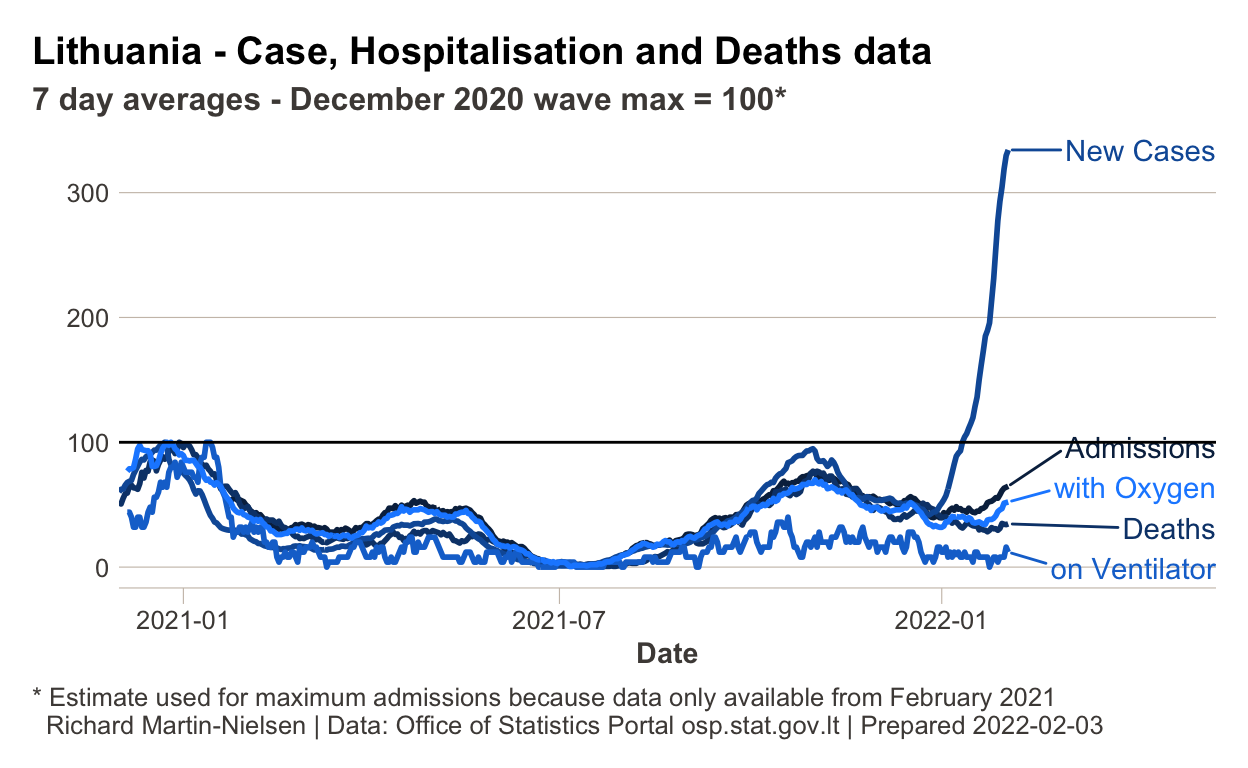
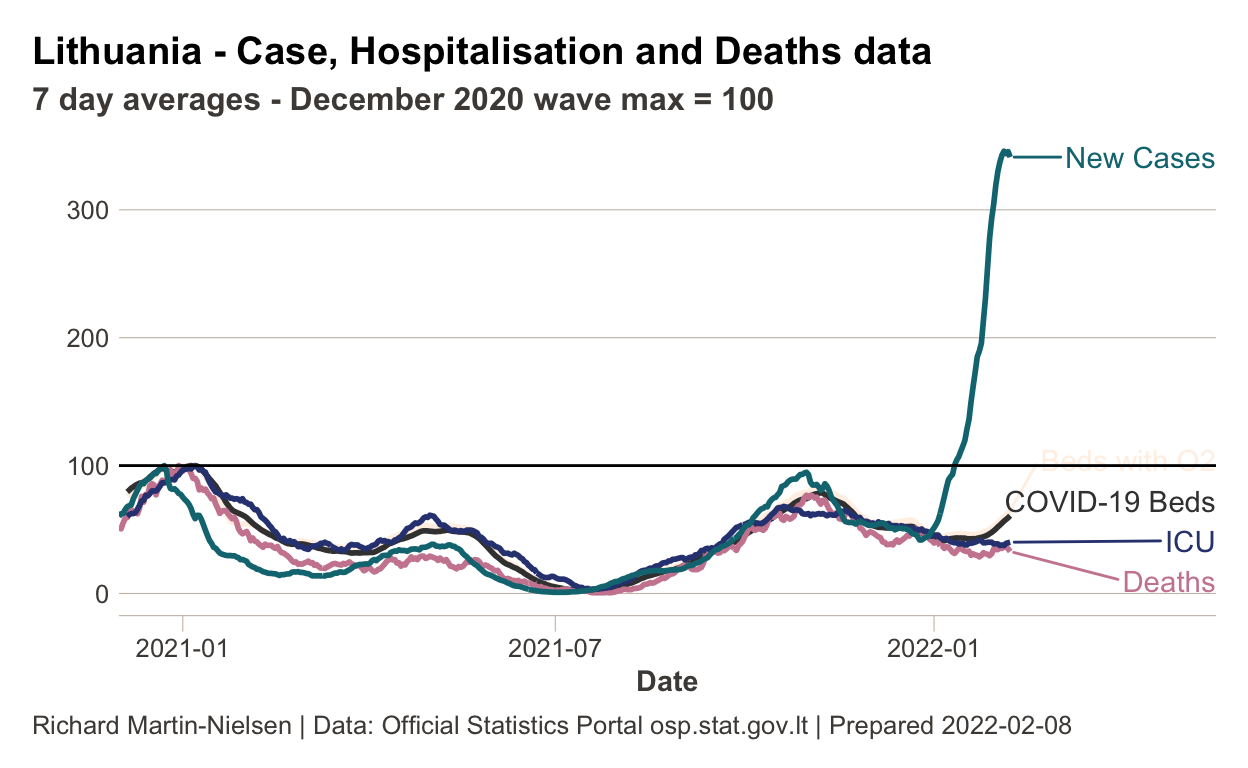
Switch to showing hospital occupancy instead of admissions

Changed region(s): [[0.0312, 0.1875, 0.9688, 0.9688], [0.0312, 0.4062, 0.0938, 0.4688]]

diff --git a/docs/hospitalisations.html b/docs/hospitalisations.html
@@ -93,8 +93,8 @@ code span.wa { color: #5e5e5e; font-style: italic; } /* Warning */
   <link rel="license" href="https://creativecommons.org/licenses/by/4.0/"/>
 
   <!--  https://schema.org/Article -->
-  <meta property="article:published" itemprop="datePublished" content="2022-02-03"/>
-  <meta property="article:created" itemprop="dateCreated" content="2022-02-03"/>
+  <meta property="article:published" itemprop="datePublished" content="2022-02-08"/>
+  <meta property="article:created" itemprop="dateCreated" content="2022-02-08"/>
 
   <!--  https://developers.facebook.com/docs/sharing/webmasters#markup -->
   <meta property="og:title" content="Lithuanian COVID-19 calculations: Hospital admissions in the Omicron wave"/>
@@ -111,7 +111,7 @@ code span.wa { color: #5e5e5e; font-style: italic; } /* Warning */
   <!--radix_placeholder_rmarkdown_metadata-->
 
   <script type="text/json" id="radix-rmarkdown-metadata">
-  {"type":"list","attributes":{"names":{"type":"character","attributes":{},"value":["title","params","date","output","base_url","twitter","creative_commons"]}},"value":[{"type":"character","attributes":{},"value":["Hospital admissions in the Omicron wave"]},{"type":"list","attributes":{"names":{"type":"character","attributes":{},"value":["prepared_by"]}},"value":[{"type":"list","attributes":{"names":{"type":"character","attributes":{},"value":["label","value","input"]}},"value":[{"type":"character","attributes":{},"value":["Prepared by:"]},{"type":"character","attributes":{},"value":["Richard Martin-Nielsen"]},{"type":"character","attributes":{},"value":["text"]}]}]},{"type":"character","attributes":{},"value":["2022-02-03"]},{"type":"character","attributes":{},"value":["distill::distill_article"]},{"type":"character","attributes":{},"value":["https://richardmn.github.io/lt_covid_calcs"]},{"type":"list","attributes":{"names":{"type":"character","attributes":{},"value":["site"]}},"value":[{"type":"character","attributes":{},"value":["@rmartinnielsen"]}]},{"type":"character","attributes":{},"value":["CC BY"]}]}
+  {"type":"list","attributes":{"names":{"type":"character","attributes":{},"value":["title","params","date","output","base_url","twitter","creative_commons"]}},"value":[{"type":"character","attributes":{},"value":["Hospital admissions in the Omicron wave"]},{"type":"list","attributes":{"names":{"type":"character","attributes":{},"value":["prepared_by"]}},"value":[{"type":"list","attributes":{"names":{"type":"character","attributes":{},"value":["label","value","input"]}},"value":[{"type":"character","attributes":{},"value":["Prepared by:"]},{"type":"character","attributes":{},"value":["Richard Martin-Nielsen"]},{"type":"character","attributes":{},"value":["text"]}]}]},{"type":"character","attributes":{},"value":["2022-02-08"]},{"type":"character","attributes":{},"value":["distill::distill_article"]},{"type":"character","attributes":{},"value":["https://richardmn.github.io/lt_covid_calcs"]},{"type":"list","attributes":{"names":{"type":"character","attributes":{},"value":["site"]}},"value":[{"type":"character","attributes":{},"value":["@rmartinnielsen"]}]},{"type":"character","attributes":{},"value":["CC BY"]}]}
   </script>
   <!--/radix_placeholder_rmarkdown_metadata-->
   <!--radix_placeholder_navigation_in_header-->
@@ -2059,7 +2059,7 @@ code span.wa { color: #5e5e5e; font-style: italic; } /* Warning */
 <!--radix_placeholder_front_matter-->
 
 <script id="distill-front-matter" type="text/json">
-{"title":"Hospital admissions in the Omicron wave","authors":[],"publishedDate":"2022-02-03T00:00:00.000+02:00"}
+{"title":"Hospital admissions in the Omicron wave","authors":[],"publishedDate":"2022-02-08T00:00:00.000+02:00"}
 </script>
 
 <!--/radix_placeholder_front_matter-->
@@ -2109,21 +2109,24 @@ Show code
   <span class='fu'><a href='https://dplyr.tidyverse.org/reference/mutate.html'>mutate</a></span><span class='op'>(</span> event <span class='op'>=</span> <span class='fu'><a href='https://rdrr.io/r/base/grep.html'>gsub</a></span><span class='op'>(</span><span class='st'>"_r7m.*"</span>,<span class='st'>""</span>, <span class='va'>event</span><span class='op'>)</span><span class='op'>)</span> <span class='op'><a href='https://magrittr.tidyverse.org/reference/pipe.html'>%&gt;%</a></span>
   <span class='fu'><a href='https://dplyr.tidyverse.org/reference/mutate.html'>mutate</a></span><span class='op'>(</span> event <span class='op'>=</span> <span class='fu'><a href='https://stringr.tidyverse.org/reference/case.html'>str_to_title</a></span><span class='op'>(</span><span class='fu'><a href='https://rdrr.io/r/base/grep.html'>gsub</a></span><span class='op'>(</span><span class='st'>"_"</span>,<span class='st'>" "</span>, <span class='va'>event</span><span class='op'>)</span><span class='op'>)</span><span class='op'>)</span> <span class='op'><a href='https://magrittr.tidyverse.org/reference/pipe.html'>%&gt;%</a></span>
     <span class='fu'><a href='https://dplyr.tidyverse.org/reference/mutate.html'>mutate</a></span><span class='op'>(</span>event <span class='op'>=</span> <span class='fu'><a href='https://dplyr.tidyverse.org/reference/case_when.html'>case_when</a></span><span class='op'>(</span>
-    <span class='va'>event</span> <span class='op'>==</span> <span class='st'>"Admissions Oxygen"</span> <span class='op'>~</span> <span class='st'>"with Oxygen"</span>,
-    <span class='va'>event</span> <span class='op'>==</span> <span class='st'>"Admissions Mv"</span>     <span class='op'>~</span> <span class='st'>"on Ventilator"</span>,
+    <span class='va'>event</span> <span class='op'>==</span> <span class='st'>"Admissions Oxygen"</span> <span class='op'>~</span> <span class='st'>"Admissions with Oxygen"</span>,
+    <span class='va'>event</span> <span class='op'>==</span> <span class='st'>"Admissions Mv"</span>     <span class='op'>~</span> <span class='st'>"Admissions on Ventilator"</span>,
     <span class='va'>event</span> <span class='op'>==</span> <span class='st'>"Deaths Cov1"</span>       <span class='op'>~</span> <span class='st'>"Deaths"</span>, 
+    <span class='co'>#event == "Hospital Beds Occupied" ~ "Admissions with Oxygen",</span>
+    
+    <span class='co'>#event == "Admissions Mv"     ~ "Admissions on Ventilator",</span>
     <span class='cn'>TRUE</span> <span class='op'>~</span> <span class='va'>event</span>
   <span class='op'>)</span><span class='op'>)</span>
 <span class='va'>events_to_plot</span> <span class='op'>&lt;-</span> <span class='fu'><a href='https://rdrr.io/r/base/c.html'>c</a></span><span class='op'>(</span>
-              <span class='co'># "Hospital Beds Occupied",</span>
-              <span class='co'># "Oxygen Beds Occupied",</span>
+               <span class='st'>"Hospital Beds Occupied"</span>,
+               <span class='st'>"Oxygen Beds Occupied"</span>,
               <span class='co'># "Mv Beds Occupied",</span>
-              <span class='co'># "Icu Beds Occupied",</span>
+               <span class='st'>"Icu Beds Occupied"</span>
               <span class='co'># "Icu Mv Beds Occupied", </span>
               <span class='co'># "Icu Ecmo In Use",</span>
-              <span class='st'>"Admissions"</span>, 
-              <span class='st'>"with Oxygen"</span>,
-              <span class='st'>"on Ventilator"</span>
+              <span class='co'>#"Admissions", </span>
+              <span class='co'>#"with Oxygen",</span>
+              <span class='co'>#"on Ventilator"</span>
               <span class='op'>)</span>
 
 <span class='va'>lt_case_deaths</span> <span class='op'>&lt;-</span> <span class='va'>lt_aggregate</span> <span class='op'><a href='https://magrittr.tidyverse.org/reference/pipe.html'>%&gt;%</a></span>
@@ -2148,22 +2151,29 @@ Show code
   <span class='fu'><a href='https://dplyr.tidyverse.org/reference/mutate.html'>mutate</a></span><span class='op'>(</span>max <span class='op'>=</span> <span class='fu'><a href='https://dplyr.tidyverse.org/reference/if_else.html'>if_else</a></span><span class='op'>(</span><span class='va'>event</span> <span class='op'>==</span> <span class='st'>"Admissions"</span>, <span class='fl'>250</span>, <span class='va'>max</span><span class='op'>)</span><span class='op'>)</span>
   
 <span class='va'>lt_hosp_nrml</span> <span class='op'>&lt;-</span> <span class='fu'><a href='https://dplyr.tidyverse.org/reference/mutate-joins.html'>left_join</a></span><span class='op'>(</span><span class='fu'><a href='https://dplyr.tidyverse.org/reference/bind.html'>bind_rows</a></span><span class='op'>(</span><span class='va'>lt_hosp_cv19</span>, <span class='va'>lt_case_deaths</span><span class='op'>)</span>, <span class='va'>lt_hosp_cv19_max</span>, by<span class='op'>=</span><span class='fu'><a href='https://rdrr.io/r/base/c.html'>c</a></span><span class='op'>(</span><span class='st'>"event"</span><span class='op'>)</span><span class='op'>)</span> <span class='op'><a href='https://magrittr.tidyverse.org/reference/pipe.html'>%&gt;%</a></span>
-  <span class='fu'><a href='https://dplyr.tidyverse.org/reference/mutate.html'>mutate</a></span><span class='op'>(</span> count <span class='op'>=</span> <span class='fu'><a href='https://dplyr.tidyverse.org/reference/case_when.html'>case_when</a></span><span class='op'>(</span>
-    <span class='va'>event</span><span class='op'>==</span><span class='st'>"Admissions"</span> <span class='op'>&amp;&amp;</span> <span class='va'>count</span> <span class='op'>==</span> <span class='fl'>0</span>  <span class='op'>~</span> <span class='cn'>NA_real_</span>,
-    <span class='cn'>TRUE</span> <span class='op'>~</span> <span class='va'>count</span> <span class='op'>)</span> <span class='op'>)</span> <span class='op'><a href='https://magrittr.tidyverse.org/reference/pipe.html'>%&gt;%</a></span>
-  <span class='fu'><a href='https://dplyr.tidyverse.org/reference/filter.html'>filter</a></span><span class='op'>(</span><span class='op'>!</span><span class='op'>(</span><span class='va'>event</span> <span class='op'>==</span> <span class='st'>"Admissions"</span> <span class='op'>&amp;</span> <span class='va'>count</span> <span class='op'>==</span> <span class='fl'>0</span><span class='op'>)</span><span class='op'>)</span> <span class='op'><a href='https://magrittr.tidyverse.org/reference/pipe.html'>%&gt;%</a></span>
+  <span class='co'># mutate( count = case_when(</span>
+  <span class='co'>#   event=="Admissions" &amp;&amp; count == 0  ~ NA_real_,</span>
+  <span class='co'>#   TRUE ~ count ) ) %&gt;%</span>
+  <span class='co'># filter(!(event == "Admissions" &amp; count == 0)) %&gt;%</span>
   <span class='fu'><a href='https://dplyr.tidyverse.org/reference/mutate.html'>mutate</a></span><span class='op'>(</span>normalised<span class='op'>=</span> <span class='va'>count</span> <span class='op'>/</span> <span class='va'>max</span> <span class='op'>*</span> <span class='fl'>100</span><span class='op'>)</span> <span class='op'><a href='https://magrittr.tidyverse.org/reference/pipe.html'>%&gt;%</a></span>
     <span class='fu'><a href='https://dplyr.tidyverse.org/reference/filter.html'>filter</a></span><span class='op'>(</span><span class='va'>event</span> <span class='op'><a href='https://rdrr.io/r/base/match.html'>%in%</a></span> <span class='fu'><a href='https://rdrr.io/r/base/c.html'>c</a></span><span class='op'>(</span>
       <span class='co'>#"Icu Ecmo In Use",</span>
-                        <span class='st'>"Admissions"</span>,
-                        <span class='st'>"with Oxygen"</span>,
-                        <span class='st'>"on Ventilator"</span>,
+                      <span class='co'>#  "Admissions",</span>
+                        <span class='co'># "with Oxygen",</span>
+                        <span class='co'># "on Ventilator",</span>
+                        <span class='st'>"Hospital Beds Occupied"</span>,
+                        <span class='st'>"Oxygen Beds Occupied"</span>,
+                        <span class='co'># "Mv Beds Occupied",</span>
+                        <span class='st'>"Icu Beds Occupied"</span>,
                       <span class='st'>"New Cases"</span>,
                       <span class='st'>"Deaths Cov1"</span>
                       <span class='co'>#"Icu Ecmo In Use"</span>
                       <span class='op'>)</span><span class='op'>)</span> <span class='op'><a href='https://magrittr.tidyverse.org/reference/pipe.html'>%&gt;%</a></span>
   <span class='fu'><a href='https://dplyr.tidyverse.org/reference/mutate.html'>mutate</a></span><span class='op'>(</span>event <span class='op'>=</span> <span class='fu'><a href='https://dplyr.tidyverse.org/reference/case_when.html'>case_when</a></span><span class='op'>(</span>
-    <span class='va'>event</span> <span class='op'>==</span> <span class='st'>"Deaths Cov1"</span>       <span class='op'>~</span> <span class='st'>"Deaths"</span>, 
+    <span class='va'>event</span> <span class='op'>==</span> <span class='st'>"Deaths Cov1"</span>            <span class='op'>~</span> <span class='st'>"Deaths"</span>, 
+    <span class='va'>event</span> <span class='op'>==</span> <span class='st'>"Hospital Beds Occupied"</span> <span class='op'>~</span> <span class='st'>"COVID-19 Beds"</span>,
+    <span class='va'>event</span> <span class='op'>==</span> <span class='st'>"Oxygen Beds Occupied"</span>   <span class='op'>~</span> <span class='st'>"Beds with O2"</span>,
+    <span class='va'>event</span> <span class='op'>==</span> <span class='st'>"Icu Beds Occupied"</span>      <span class='op'>~</span> <span class='st'>"ICU"</span>,
     <span class='cn'>TRUE</span> <span class='op'>~</span> <span class='va'>event</span>
   <span class='op'>)</span><span class='op'>)</span> <span class='op'><a href='https://magrittr.tidyverse.org/reference/pipe.html'>%&gt;%</a></span>
   <span class='co'>#filter(!(event=="Admissions" &amp;&amp; normalised == 0)) %&gt;%</span>
@@ -2175,17 +2185,19 @@ Show code
     <span class='fu'><a href='https://rdrr.io/pkg/ggrepel/man/geom_text_repel.html'>geom_text_repel</a></span><span class='op'>(</span><span class='fu'><a href='https://ggplot2.tidyverse.org/reference/aes.html'>aes</a></span><span class='op'>(</span>x<span class='op'>=</span><span class='va'>date</span>,y<span class='op'>=</span><span class='va'>normalised</span>,label<span class='op'>=</span><span class='va'>event</span>,colour<span class='op'>=</span><span class='va'>event</span><span class='op'>)</span>,
                   nudge_x<span class='op'>=</span><span class='fl'>100</span>,
                   direction<span class='op'>=</span><span class='st'>"y"</span>,hjust<span class='op'>=</span><span class='st'>"right"</span>,
-                  data <span class='op'>=</span> <span class='fu'><a href='https://dplyr.tidyverse.org/reference/arrange.html'>arrange</a></span><span class='op'>(</span><span class='va'>lt_hosp_nrml</span>,<span class='va'>event</span>,<span class='va'>date</span><span class='op'>)</span><span class='op'><a href='https://magrittr.tidyverse.org/reference/pipe.html'>%&gt;%</a></span><span class='fu'><a href='https://dplyr.tidyverse.org/reference/group_by.html'>group_by</a></span><span class='op'>(</span><span class='va'>event</span><span class='op'>)</span><span class='op'><a href='https://magrittr.tidyverse.org/reference/pipe.html'>%&gt;%</a></span><span class='fu'><a href='https://dplyr.tidyverse.org/reference/summarise.html'>summarise</a></span><span class='op'>(</span><span class='fu'><a href='https://dplyr.tidyverse.org/reference/across.html'>across</a></span><span class='op'>(</span><span class='fu'><a href='https://tidyselect.r-lib.org/reference/everything.html'>everything</a></span><span class='op'>(</span><span class='op'>)</span>, <span class='va'>last</span><span class='op'>)</span><span class='op'>)</span><span class='op'>)</span> <span class='op'>+</span>
+                  data <span class='op'>=</span> <span class='fu'><a href='https://dplyr.tidyverse.org/reference/arrange.html'>arrange</a></span><span class='op'>(</span><span class='va'>lt_hosp_nrml</span>,<span class='va'>event</span>,<span class='va'>date</span><span class='op'>)</span><span class='op'><a href='https://magrittr.tidyverse.org/reference/pipe.html'>%&gt;%</a></span>
+                    <span class='fu'><a href='https://dplyr.tidyverse.org/reference/group_by.html'>group_by</a></span><span class='op'>(</span><span class='va'>event</span><span class='op'>)</span><span class='op'><a href='https://magrittr.tidyverse.org/reference/pipe.html'>%&gt;%</a></span>
+                    <span class='fu'><a href='https://dplyr.tidyverse.org/reference/summarise.html'>summarise</a></span><span class='op'>(</span><span class='fu'><a href='https://dplyr.tidyverse.org/reference/across.html'>across</a></span><span class='op'>(</span><span class='fu'><a href='https://tidyselect.r-lib.org/reference/everything.html'>everything</a></span><span class='op'>(</span><span class='op'>)</span>, <span class='va'>last</span><span class='op'>)</span><span class='op'>)</span> <span class='op'>)</span> <span class='op'>+</span>
                   <span class='co'>#data=group_by(lt_hosp_nrml%&gt;%filter(date == ymd("2022-01-13")), event)%&gt;%tail(6)) +</span>
   <span class='fu'><a href='https://ggplot2.tidyverse.org/reference/geom_abline.html'>geom_hline</a></span><span class='op'>(</span>yintercept <span class='op'>=</span> <span class='fl'>100</span><span class='op'>)</span> <span class='op'>+</span>
   <span class='fu'><a href='https://rdrr.io/pkg/ftplottools/man/ft_theme.html'>ft_theme</a></span><span class='op'>(</span><span class='op'>)</span> <span class='op'>+</span>
-  <span class='fu'><a href='https://rdrr.io/pkg/ftplottools/man/scale_color_ft.html'>scale_color_ft</a></span><span class='op'>(</span><span class='st'>"oxford"</span><span class='op'>)</span> <span class='op'>+</span>
+  <span class='fu'><a href='https://rdrr.io/pkg/ftplottools/man/scale_color_ft.html'>scale_color_ft</a></span><span class='op'>(</span><span class='st'>"origami primary"</span><span class='op'>)</span> <span class='op'>+</span>
   <span class='fu'><a href='https://ggplot2.tidyverse.org/reference/theme.html'>theme</a></span><span class='op'>(</span>legend.position <span class='op'>=</span> <span class='st'>"none"</span><span class='op'>)</span> <span class='op'>+</span>
     <span class='fu'><a href='https://ggplot2.tidyverse.org/reference/labs.html'>labs</a></span><span class='op'>(</span>title<span class='op'>=</span><span class='st'>"Lithuania - Case, Hospitalisation and Deaths data"</span>,
-       subtitle<span class='op'>=</span><span class='st'>"7 day averages - December 2020 wave max = 100*"</span>,
+       subtitle<span class='op'>=</span><span class='st'>"7 day averages - December 2020 wave max = 100"</span>,
        y<span class='op'>=</span><span class='st'>""</span>,
        x<span class='op'>=</span><span class='st'>"Date"</span>,
-       caption<span class='op'>=</span><span class='fu'><a href='https://rdrr.io/r/base/paste.html'>paste0</a></span><span class='op'>(</span><span class='st'>"* Estimate used for maximum admissions because data only available from February 2021\n  "</span>, <span class='va'>caption_text</span><span class='op'>)</span><span class='op'>)</span> <span class='op'>+</span>
+       caption<span class='op'>=</span><span class='fu'><a href='https://rdrr.io/r/base/paste.html'>paste0</a></span><span class='op'>(</span><span class='st'>""</span>, <span class='va'>caption_text</span><span class='op'>)</span><span class='op'>)</span> <span class='op'>+</span>
   <span class='fu'><a href='https://ggplot2.tidyverse.org/reference/scale_date.html'>scale_x_date</a></span><span class='op'>(</span>limits <span class='op'>=</span> <span class='fu'><a href='https://rdrr.io/r/base/c.html'>c</a></span><span class='op'>(</span><span class='fu'><a href='https://lubridate.tidyverse.org/reference/ymd.html'>ymd</a></span><span class='op'>(</span><span class='st'>"2020-12-01"</span>,<span class='cn'>NA</span><span class='op'>)</span><span class='op'>)</span>,expand <span class='op'>=</span> <span class='fu'><a href='https://ggplot2.tidyverse.org/reference/expansion.html'>expansion</a></span><span class='op'>(</span>add <span class='op'>=</span> <span class='fu'><a href='https://rdrr.io/r/base/c.html'>c</a></span><span class='op'>(</span><span class='fl'>0</span>,<span class='fl'>100</span><span class='op'>)</span><span class='op'>)</span><span class='op'>)</span> <span class='op'>+</span>
   <span class='fu'><a href='https://ggplot2.tidyverse.org/reference/scale_continuous.html'>scale_y_continuous</a></span><span class='op'>(</span>limits <span class='op'>=</span> <span class='fu'><a href='https://rdrr.io/r/base/c.html'>c</a></span><span class='op'>(</span><span class='fl'>0</span>,<span class='cn'>NA</span><span class='op'>)</span><span class='op'>)</span>
 </code></pre>
@@ -2193,32 +2205,38 @@ Show code
 </details>
 <p><img src="hospitalisations_files/figure-html5/normalised_hospitalisation-1.png" width="624" /></p>
 </div>
-<h2 id="hospital-admissions-since-late-2020">Hospital admissions since late 2020</h2>
-<p>This plot shows COVID-19 related hospital admissions since late 2020.</p>
+<h2 id="hospital-occupancy-since-late-2020">Hospital occupancy since late 2020</h2>
+<p>This plot shows COVID-19 related hospital bed occupancy since late 2020.</p>
 <div class="layout-chunk" data-layout="l-body">
 <details>
 <summary>
 Show code
 </summary>
 <div class="sourceCode">
-<pre class="sourceCode r"><code class="sourceCode r"><span class='va'>lt_hosp_cv19</span> <span class='op'><a href='https://magrittr.tidyverse.org/reference/pipe.html'>%&gt;%</a></span>
+<pre class="sourceCode r"><code class="sourceCode r"><span class='va'>lt_hosp_occupancy_labelled</span> <span class='op'>&lt;-</span> <span class='va'>lt_hosp_cv19</span> <span class='op'><a href='https://magrittr.tidyverse.org/reference/pipe.html'>%&gt;%</a></span>
   <span class='fu'><a href='https://dplyr.tidyverse.org/reference/filter.html'>filter</a></span><span class='op'>(</span> <span class='va'>event</span> <span class='op'><a href='https://rdrr.io/r/base/match.html'>%in%</a></span> <span class='va'>events_to_plot</span><span class='op'>)</span> <span class='op'><a href='https://magrittr.tidyverse.org/reference/pipe.html'>%&gt;%</a></span>
-  <span class='fu'><a href='https://dplyr.tidyverse.org/reference/filter.html'>filter</a></span><span class='op'>(</span><span class='op'>!</span><span class='op'>(</span><span class='va'>event</span> <span class='op'>==</span> <span class='st'>"Admissions"</span> <span class='op'>&amp;</span> <span class='va'>count</span> <span class='op'>==</span> <span class='fl'>0</span><span class='op'>)</span><span class='op'>)</span> <span class='op'><a href='https://magrittr.tidyverse.org/reference/pipe.html'>%&gt;%</a></span>
+    <span class='fu'><a href='https://dplyr.tidyverse.org/reference/mutate.html'>mutate</a></span><span class='op'>(</span>event <span class='op'>=</span> <span class='fu'><a href='https://dplyr.tidyverse.org/reference/case_when.html'>case_when</a></span><span class='op'>(</span>
+    <span class='va'>event</span> <span class='op'>==</span> <span class='st'>"Deaths Cov1"</span>            <span class='op'>~</span> <span class='st'>"Deaths"</span>, 
+    <span class='va'>event</span> <span class='op'>==</span> <span class='st'>"Hospital Beds Occupied"</span> <span class='op'>~</span> <span class='st'>"COVID-19 Beds"</span>,
+    <span class='va'>event</span> <span class='op'>==</span> <span class='st'>"Oxygen Beds Occupied"</span>   <span class='op'>~</span> <span class='st'>"Beds with O2"</span>,
+    <span class='va'>event</span> <span class='op'>==</span> <span class='st'>"Icu Beds Occupied"</span>      <span class='op'>~</span> <span class='st'>"ICU"</span>,
+    <span class='cn'>TRUE</span> <span class='op'>~</span> <span class='va'>event</span>
+  <span class='op'>)</span><span class='op'>)</span>
+
+<span class='va'>lt_hosp_occupancy_labelled</span> <span class='op'><a href='https://magrittr.tidyverse.org/reference/pipe.html'>%&gt;%</a></span>
   <span class='fu'><a href='https://ggplot2.tidyverse.org/reference/ggplot.html'>ggplot</a></span><span class='op'>(</span><span class='fu'><a href='https://ggplot2.tidyverse.org/reference/aes.html'>aes</a></span><span class='op'>(</span>x<span class='op'>=</span><span class='va'>date</span>,y<span class='op'>=</span><span class='va'>count</span>, colour<span class='op'>=</span><span class='va'>event</span><span class='op'>)</span><span class='op'>)</span> <span class='op'>+</span>
   <span class='fu'><a href='https://ggplot2.tidyverse.org/reference/geom_path.html'>geom_line</a></span><span class='op'>(</span>size<span class='op'>=</span><span class='fl'>1</span><span class='op'>)</span> <span class='op'>+</span>
-    <span class='fu'><a href='https://rdrr.io/pkg/ggrepel/man/geom_text_repel.html'>geom_text_repel</a></span><span class='op'>(</span><span class='fu'><a href='https://ggplot2.tidyverse.org/reference/aes.html'>aes</a></span><span class='op'>(</span>x<span class='op'>=</span><span class='va'>date</span>,y<span class='op'>=</span><span class='va'>count</span>,label<span class='op'>=</span><span class='va'>event</span>,colour<span class='op'>=</span><span class='va'>event</span><span class='op'>)</span>,
+  <span class='fu'><a href='https://rdrr.io/pkg/ggrepel/man/geom_text_repel.html'>geom_text_repel</a></span><span class='op'>(</span><span class='fu'><a href='https://ggplot2.tidyverse.org/reference/aes.html'>aes</a></span><span class='op'>(</span>x<span class='op'>=</span><span class='va'>date</span>,y<span class='op'>=</span><span class='va'>count</span>,label<span class='op'>=</span><span class='va'>event</span>,colour<span class='op'>=</span><span class='va'>event</span><span class='op'>)</span>,
                   nudge_x<span class='op'>=</span><span class='fl'>75</span>,
                   direction<span class='op'>=</span><span class='st'>"y"</span>,hjust<span class='op'>=</span><span class='st'>"left"</span>,
-                  data <span class='op'>=</span> <span class='fu'><a href='https://dplyr.tidyverse.org/reference/arrange.html'>arrange</a></span><span class='op'>(</span><span class='va'>lt_hosp_cv19</span>,<span class='va'>event</span>,<span class='va'>date</span><span class='op'>)</span><span class='op'><a href='https://magrittr.tidyverse.org/reference/pipe.html'>%&gt;%</a></span> 
-                    <span class='fu'><a href='https://dplyr.tidyverse.org/reference/filter.html'>filter</a></span><span class='op'>(</span> <span class='va'>event</span> <span class='op'><a href='https://rdrr.io/r/base/match.html'>%in%</a></span> <span class='va'>events_to_plot</span><span class='op'>)</span><span class='op'><a href='https://magrittr.tidyverse.org/reference/pipe.html'>%&gt;%</a></span>
+                  data <span class='op'>=</span> <span class='fu'><a href='https://dplyr.tidyverse.org/reference/arrange.html'>arrange</a></span><span class='op'>(</span><span class='va'>lt_hosp_occupancy_labelled</span>,<span class='va'>event</span>,<span class='va'>date</span><span class='op'>)</span><span class='op'><a href='https://magrittr.tidyverse.org/reference/pipe.html'>%&gt;%</a></span>
                     <span class='fu'><a href='https://dplyr.tidyverse.org/reference/group_by.html'>group_by</a></span><span class='op'>(</span><span class='va'>event</span><span class='op'>)</span><span class='op'><a href='https://magrittr.tidyverse.org/reference/pipe.html'>%&gt;%</a></span>
                     <span class='fu'><a href='https://dplyr.tidyverse.org/reference/summarise.html'>summarise</a></span><span class='op'>(</span><span class='fu'><a href='https://dplyr.tidyverse.org/reference/across.html'>across</a></span><span class='op'>(</span><span class='fu'><a href='https://tidyselect.r-lib.org/reference/everything.html'>everything</a></span><span class='op'>(</span><span class='op'>)</span>, <span class='va'>last</span><span class='op'>)</span><span class='op'>)</span><span class='op'>)</span> <span class='op'>+</span>
-    <span class='co'>#theme_minimal() +</span>
   <span class='fu'><a href='https://rdrr.io/pkg/ftplottools/man/ft_theme.html'>ft_theme</a></span><span class='op'>(</span><span class='op'>)</span> <span class='op'>+</span>
-  <span class='fu'><a href='https://rdrr.io/pkg/ftplottools/man/scale_color_ft.html'>scale_color_ft</a></span><span class='op'>(</span><span class='st'>"oxford"</span><span class='op'>)</span> <span class='op'>+</span>
+  <span class='fu'><a href='https://rdrr.io/pkg/ftplottools/man/scale_color_ft.html'>scale_color_ft</a></span><span class='op'>(</span><span class='st'>"teal"</span><span class='op'>)</span> <span class='op'>+</span>
     <span class='co'>#scale_colour_viridis_d() +</span>
   <span class='fu'><a href='https://ggplot2.tidyverse.org/reference/theme.html'>theme</a></span><span class='op'>(</span>legend.position <span class='op'>=</span> <span class='st'>"none"</span><span class='op'>)</span> <span class='op'>+</span>
-    <span class='fu'><a href='https://ggplot2.tidyverse.org/reference/labs.html'>labs</a></span><span class='op'>(</span>title<span class='op'>=</span><span class='st'>"Lithuania - Hospitalisation admissions"</span>,
+    <span class='fu'><a href='https://ggplot2.tidyverse.org/reference/labs.html'>labs</a></span><span class='op'>(</span>title<span class='op'>=</span><span class='st'>"Lithuania - Hospital bed occupancy"</span>,
        subtitle<span class='op'>=</span><span class='st'>"7 day means"</span>,
        y<span class='op'>=</span><span class='st'>"Beds"</span>,
        x<span class='op'>=</span><span class='st'>"Date"</span>,
@@ -2231,7 +2249,7 @@ Show code
 <p><img src="hospitalisations_files/figure-html5/hospitalisation_graphs-1.png" width="624" /></p>
 </div>
 <h2 id="data-source">Data source</h2>
-<p>These charts are drawn using data published by the <a href="https://osp.stat.gov.lt/pradinis">Official Statistics Portal</a> (OSP) on their <a href="https://experience.arcgis.com/experience/cab84dcfe0464c2a8050a78f817924ca/page/page_5/">COVID-19 open data</a> site, along with the <a href="https://osp.stat.gov.lt/en_GB/gyventojai1">annual population counts for Lithuanian municipalities</a>, also published by the OSP.</p>
+<p>These charts are drawn using data published by the <a href="https://osp.stat.gov.lt/pradinis">Official Statistics Portal</a> (OSP) on their <a href="https://experience.arcgis.com/experience/cab84dcfe0464c2a8050a78f817924ca/page/page_5/">COVID-19 open data</a> site.</p>
 <p>The R markdown source is available as a <a href="https://github.com/RichardMN/lt_covid_calcs">github repo</a>.</p>
 <h2 class="appendix" id="dataset-description-google-translation">Dataset description (google translation)</h2>
 <p><em>google translation of original Lithuanian</em><a href="#fn2" class="footnote-ref" id="fnref2" role="doc-noteref"><sup>2</sup></a></p>
